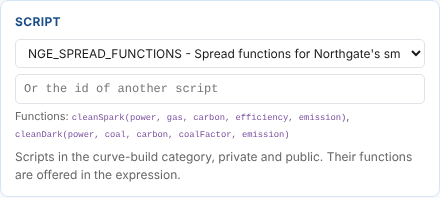
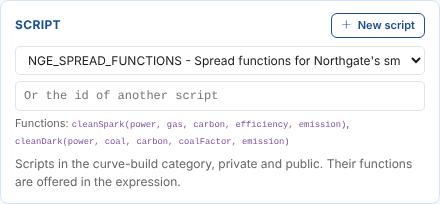
More smart data

diff --git a/plugins/extension-catalog/index.js b/plugins/extension-catalog/index.js
@@ -79,7 +79,9 @@ module.exports = function extensionCatalog(context) {
     name: 'extension-catalog',
 
     getPathsToWatch() {
-      return [path.join(extDir, '**', '*.{md,mdx,json}')];
+      // Glob patterns need forward slashes: with path.join on Windows (backslashes) the pattern matches
+      // nothing, so a new extension folder only appeared after restarting npm start
+      return [path.join(extDir, '**', '*.{md,mdx,json}').replace(/\\/g, '/')];
     },
 
     async loadContent() {

diff --git a/docs/extensions/smart-data/07-scripts.md b/docs/extensions/smart-data/07-scripts.md
@@ -37,6 +37,31 @@ To have a script offered here, give it the category in its first comment, as `NG
 
 ---
 
+## Creating a new script
+
+To start a script from scratch, select **New script** on the Script card. Tom does this for the clean dark spread, to move its calculation into a function.
+
+![New script: NGE_DARK_SPREAD_FUNCTIONS with a first function cleanDark, and the expression changed to call it](/img/extensions/smart-data/new-script.png)
+
+| Field | Example | Notes |
+|-|-|-|
+| **Script id** | `NGE_DARK_SPREAD_FUNCTIONS` | Letters, digits, underscores and dots. It must not be the id of an existing private script |
+| **Description** | `Dark spread functions for Northgate's smart curves` | Written in the script's first comment, with the category `curve-build` (or `timeseries-build`) |
+| **First function** | `cleanDark` | The function to write. Its parameters are `base` and the inputs, in lower case |
+| **Expression** | Ticked | Changes the expression to call the function with `BASE` and the inputs. Ticked by default when the expression is empty or just `BASE` |
+
+Select **Create it**. The script is saved at once as a private script, chosen in the Script card, and opened in the Script tab. The function returns `base` until you write it: a comment for each parameter says which curve, timeseries or value it gets.
+
+![The new script in the Script tab: the header comment, and cleanDark with a comment for each parameter](/img/extensions/smart-data/new-script-tab.png)
+
+Write the calculation, test it with **Run** (the arguments are filled in from the smart curve, see below), and select **Save script**. Then save the smart curve itself, which now uses the script.
+
+:::note
+The script is created even if you do not save the smart curve. Delete it in the Script Manager if you no longer need it.
+:::
+
+---
+
 ## The Script tab
 
 When the smart data uses a script, the workspace has a **Script** tab with the script's id. It is the [Script Manager](/docs/extensions/script-manager/overview)'s code editor, runner and debugger, so you can change and test the script without leaving the smart curve.

diff --git a/docs/extensions/smart-data/02-how-it-works.md b/docs/extensions/smart-data/02-how-it-works.md
@@ -87,7 +87,7 @@ The [ODSL reference for smart curves](/docs/odsl/variable/smartcurve) and [for s
 
 ## Scripts
 
-When a calculation does not fit in one expression, write it as a function in an ODSL script and call it from the expression, for example `cleanSpark(BASE, GAS, CARBON, EFFICIENCY, EMISSION_FACTOR)`. The **Script** list offers the scripts in the category `curve-build` (smart curves) or `timeseries-build` (smart timeseries), private and public, and you can type any other script id. A smart timeseries without a script can still use the functions of the public script `#TimeSeriesScript`. The public script `#CurveScript` has curve functions such as `timespread`, `interpolate` and `hourly`.
+When a calculation does not fit in one expression, write it as a function in an ODSL script and call it from the expression, for example `cleanSpark(BASE, GAS, CARBON, EFFICIENCY, EMISSION_FACTOR)`. The **Script** list offers the scripts in the category `curve-build` (smart curves) or `timeseries-build` (smart timeseries), private and public, and you can type any other script id or create a new one with **New script**. A smart timeseries without a script can still use the functions of the public script `#TimeSeriesScript`. The public script `#CurveScript` has curve functions such as `timespread`, `interpolate` and `hourly`.
 
 ---
 

diff --git a/docs/extensions/smart-data/05-the-workspace.md b/docs/extensions/smart-data/05-the-workspace.md
@@ -56,7 +56,7 @@ The cards on the left, from the top:
 | **Base curve** or **Base timeseries** | The base, called `BASE` in the expression, with **Find** |
 | **Inputs** | The curves, timeseries and values the expression uses, with **+ Curve**, **+ Timeseries** and **+ Value** |
 | **Expression** | The formula, with intellisense |
-| **Script** | The script whose functions the expression can use, and the functions it has |
+| **Script** | The script whose functions the expression can use, the functions it has, and **New script** to create one |
 | **Conversion** | FX provider, currency, units, timezone, precision and conversion factors |
 | **Build** (curves) or **Calendar** (timeseries) | When the platform builds and stores it, and its stored builds; or the calendar of a smart timeseries |
 | **Stored document** | The definition as it will be stored, for checking |
